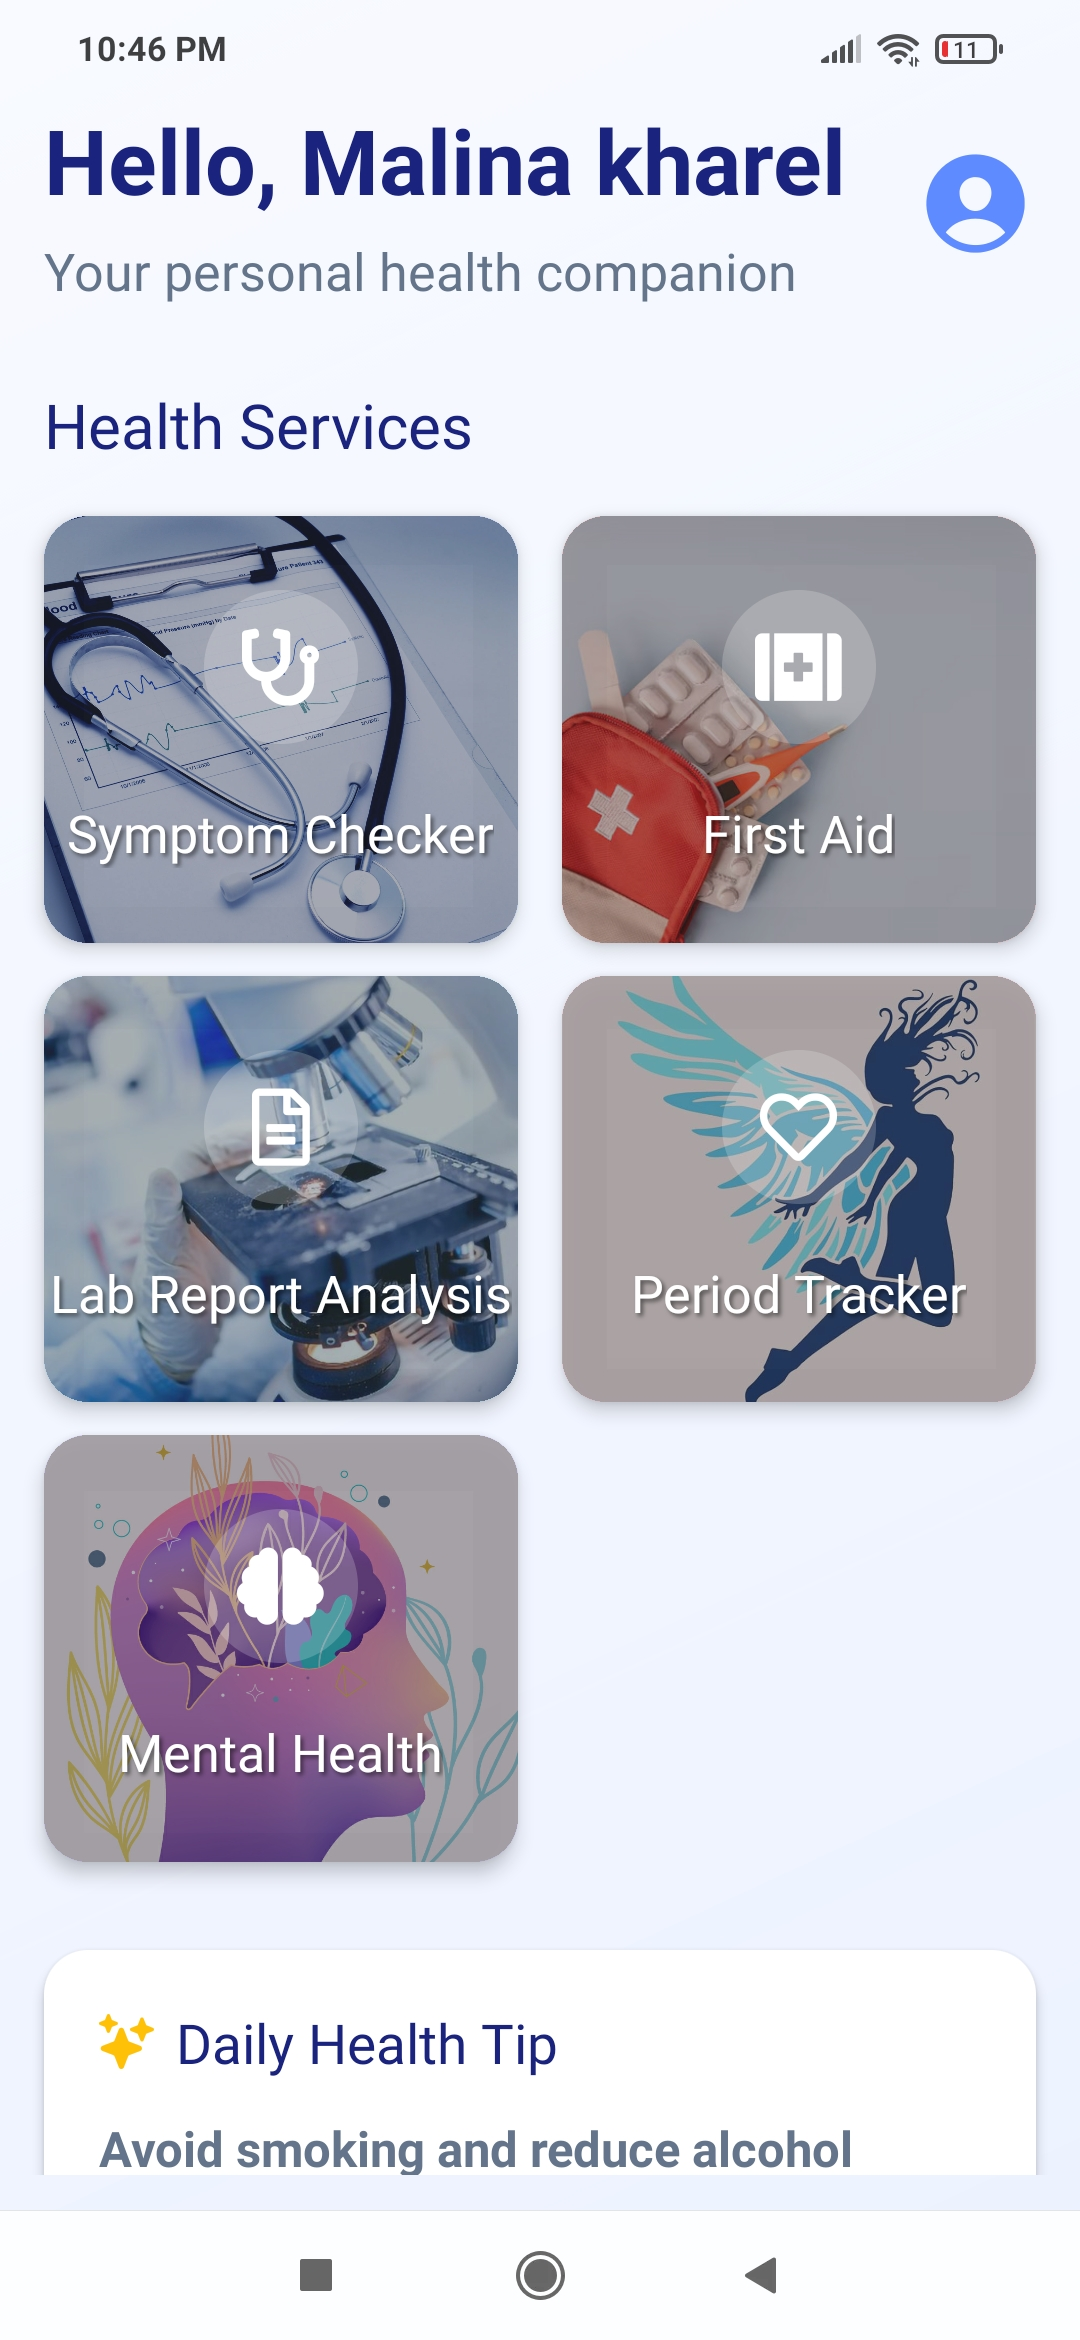
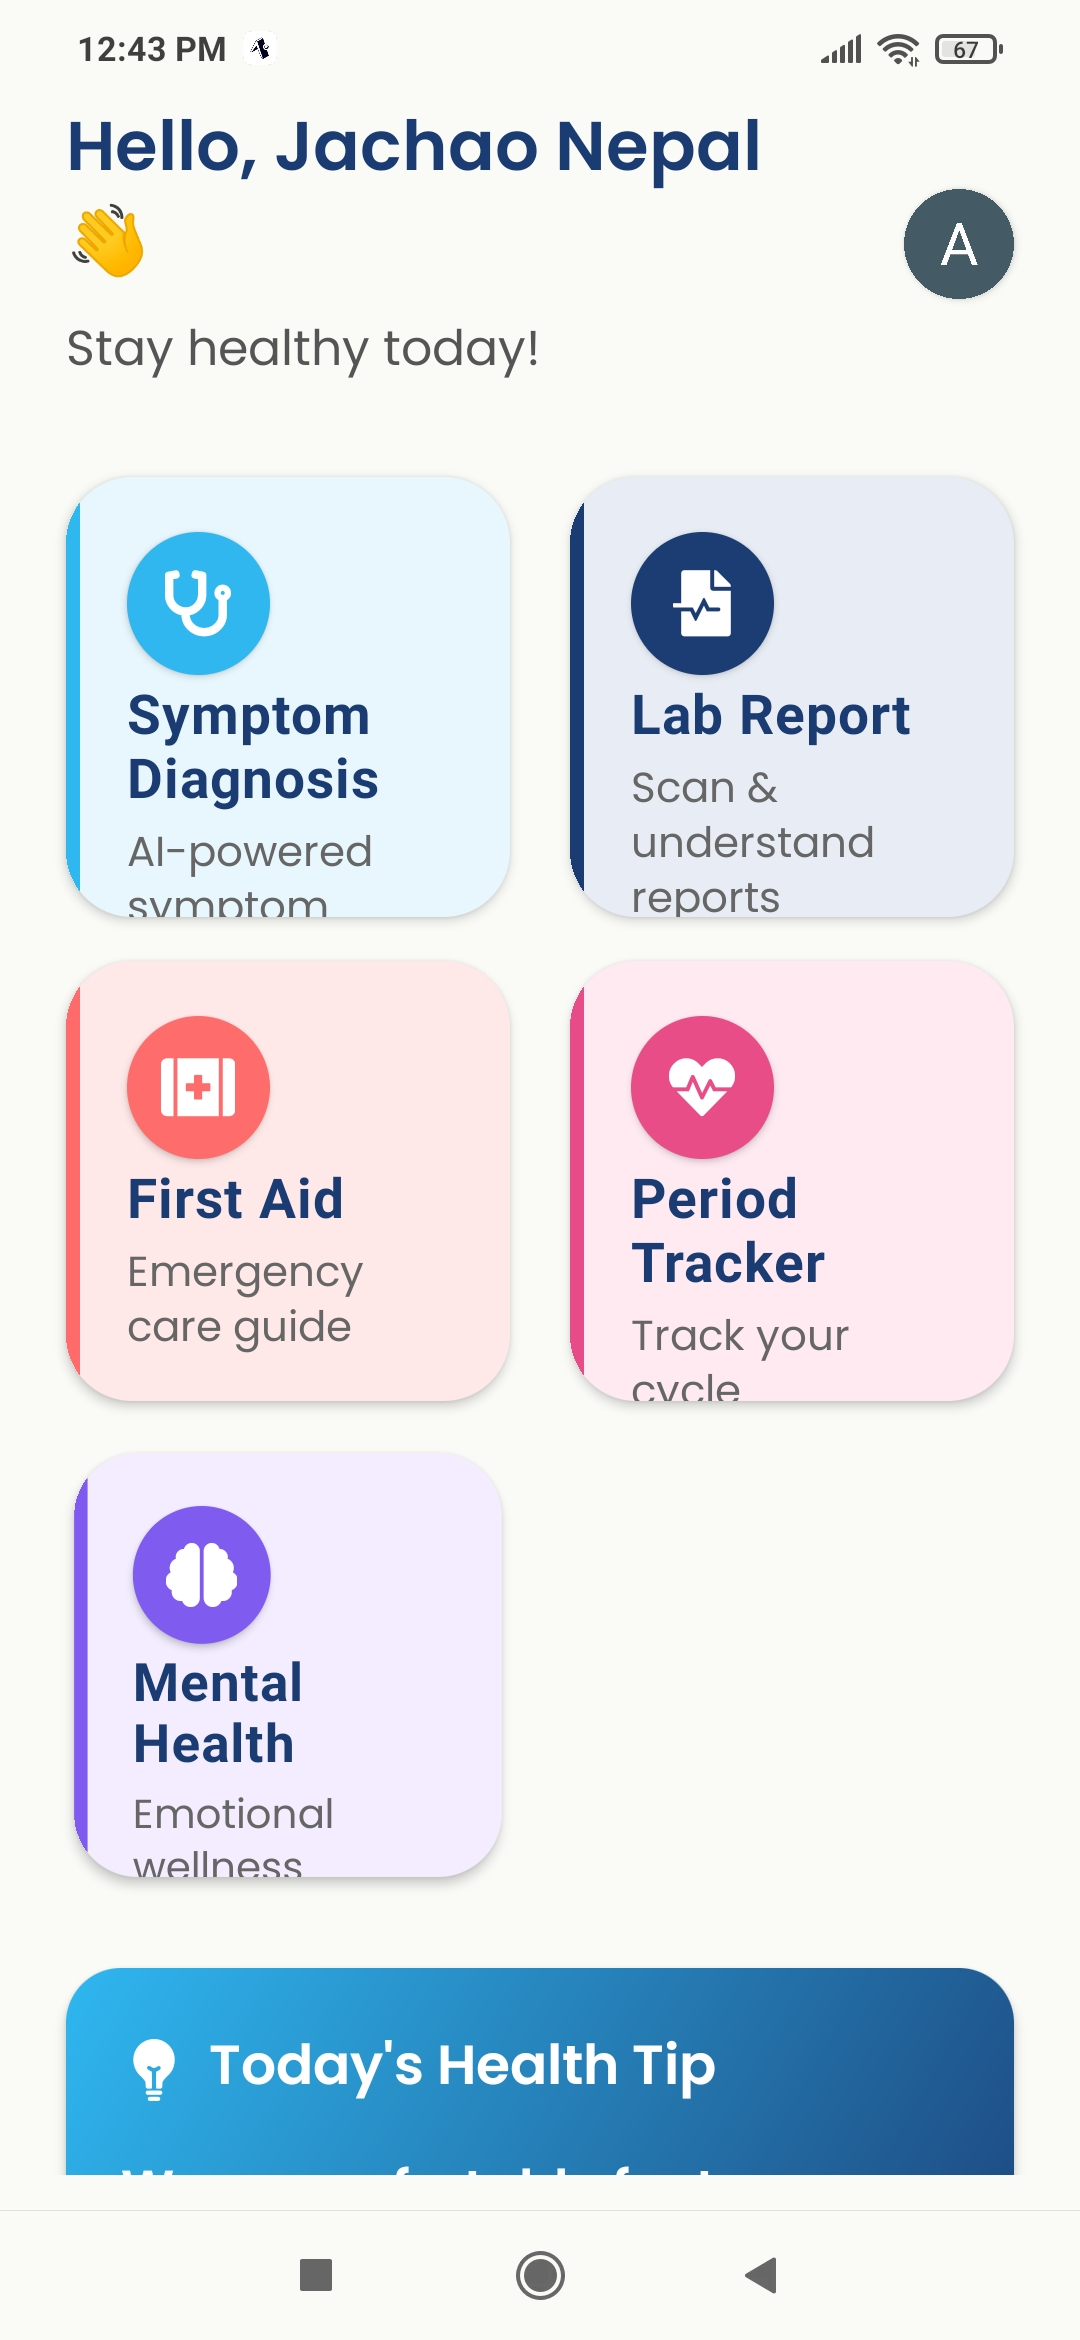
Changed some screenshot images and added delete-account page

diff --git a/pages/delete-account.tsx b/pages/delete-account.tsx
@@ -1,0 +1,71 @@
+import Head from "next/head";
+import Link from "next/link";
+import Header from "./components/Layout/Header";
+import Footer from "./components/Layout/Footer";
+
+const DeleteAccount = () => {
+  return (
+    <div className="min-h-screen flex flex-col bg-gray-50">
+      <Head>
+        <title>Delete Account - Jachao</title>
+        <meta
+          name="description"
+          content="Jachao Account Deletion Instructions"
+        />
+        <link rel="icon" href="/favicon.ico" />
+      </Head>
+
+      <main className="flex-grow py-12 px-4">
+        <div className="max-w-4xl mx-auto bg-white p-8 rounded-lg shadow-md">
+          <h1 className="text-3xl font-bold text-gray-900 mb-6">
+            Delete Account – Jachao
+          </h1>
+
+          <div className="prose prose-lg max-w-none">
+            <p className="mb-6">
+              You can delete your Jachao account and all associated data at any
+              time. Deleting your account removes your profile information,
+              health data, uploaded reports, and app preferences.
+            </p>
+
+            <h2 className="text-2xl font-semibold mt-6 mb-4 text-gray-900">
+              How to Delete
+            </h2>
+            <p className="mb-4">
+              Open the Jachao app → Go to Profile → Tap “Delete Account” →
+              Confirm.
+            </p>
+
+            <h2 className="text-2xl font-semibold mt-6 mb-4 text-gray-900">
+              Data Retention
+            </h2>
+            <p className="mb-6">
+              Some information (e.g., legal or security records) may be retained
+              for a limited period as required by law, but no personal or health
+              data is kept after deletion.
+            </p>
+
+            <h2 className="text-2xl font-semibold mt-6 mb-4 text-gray-900">
+              Support
+            </h2>
+            <p className="mb-6">
+              For help deleting your account, contact us:{" "}
+              <strong>jachaoofficial@gmail.com</strong>
+            </p>
+
+            <div className="mt-8 pt-6 border-t border-gray-200">
+              <Link
+                href="/"
+                className="text-rose-600 hover:text-rose-700 font-medium"
+              >
+                ← Back to Home
+              </Link>
+            </div>
+          </div>
+        </div>
+      </main>
+    </div>
+  );
+};
+
+export default DeleteAccount;
